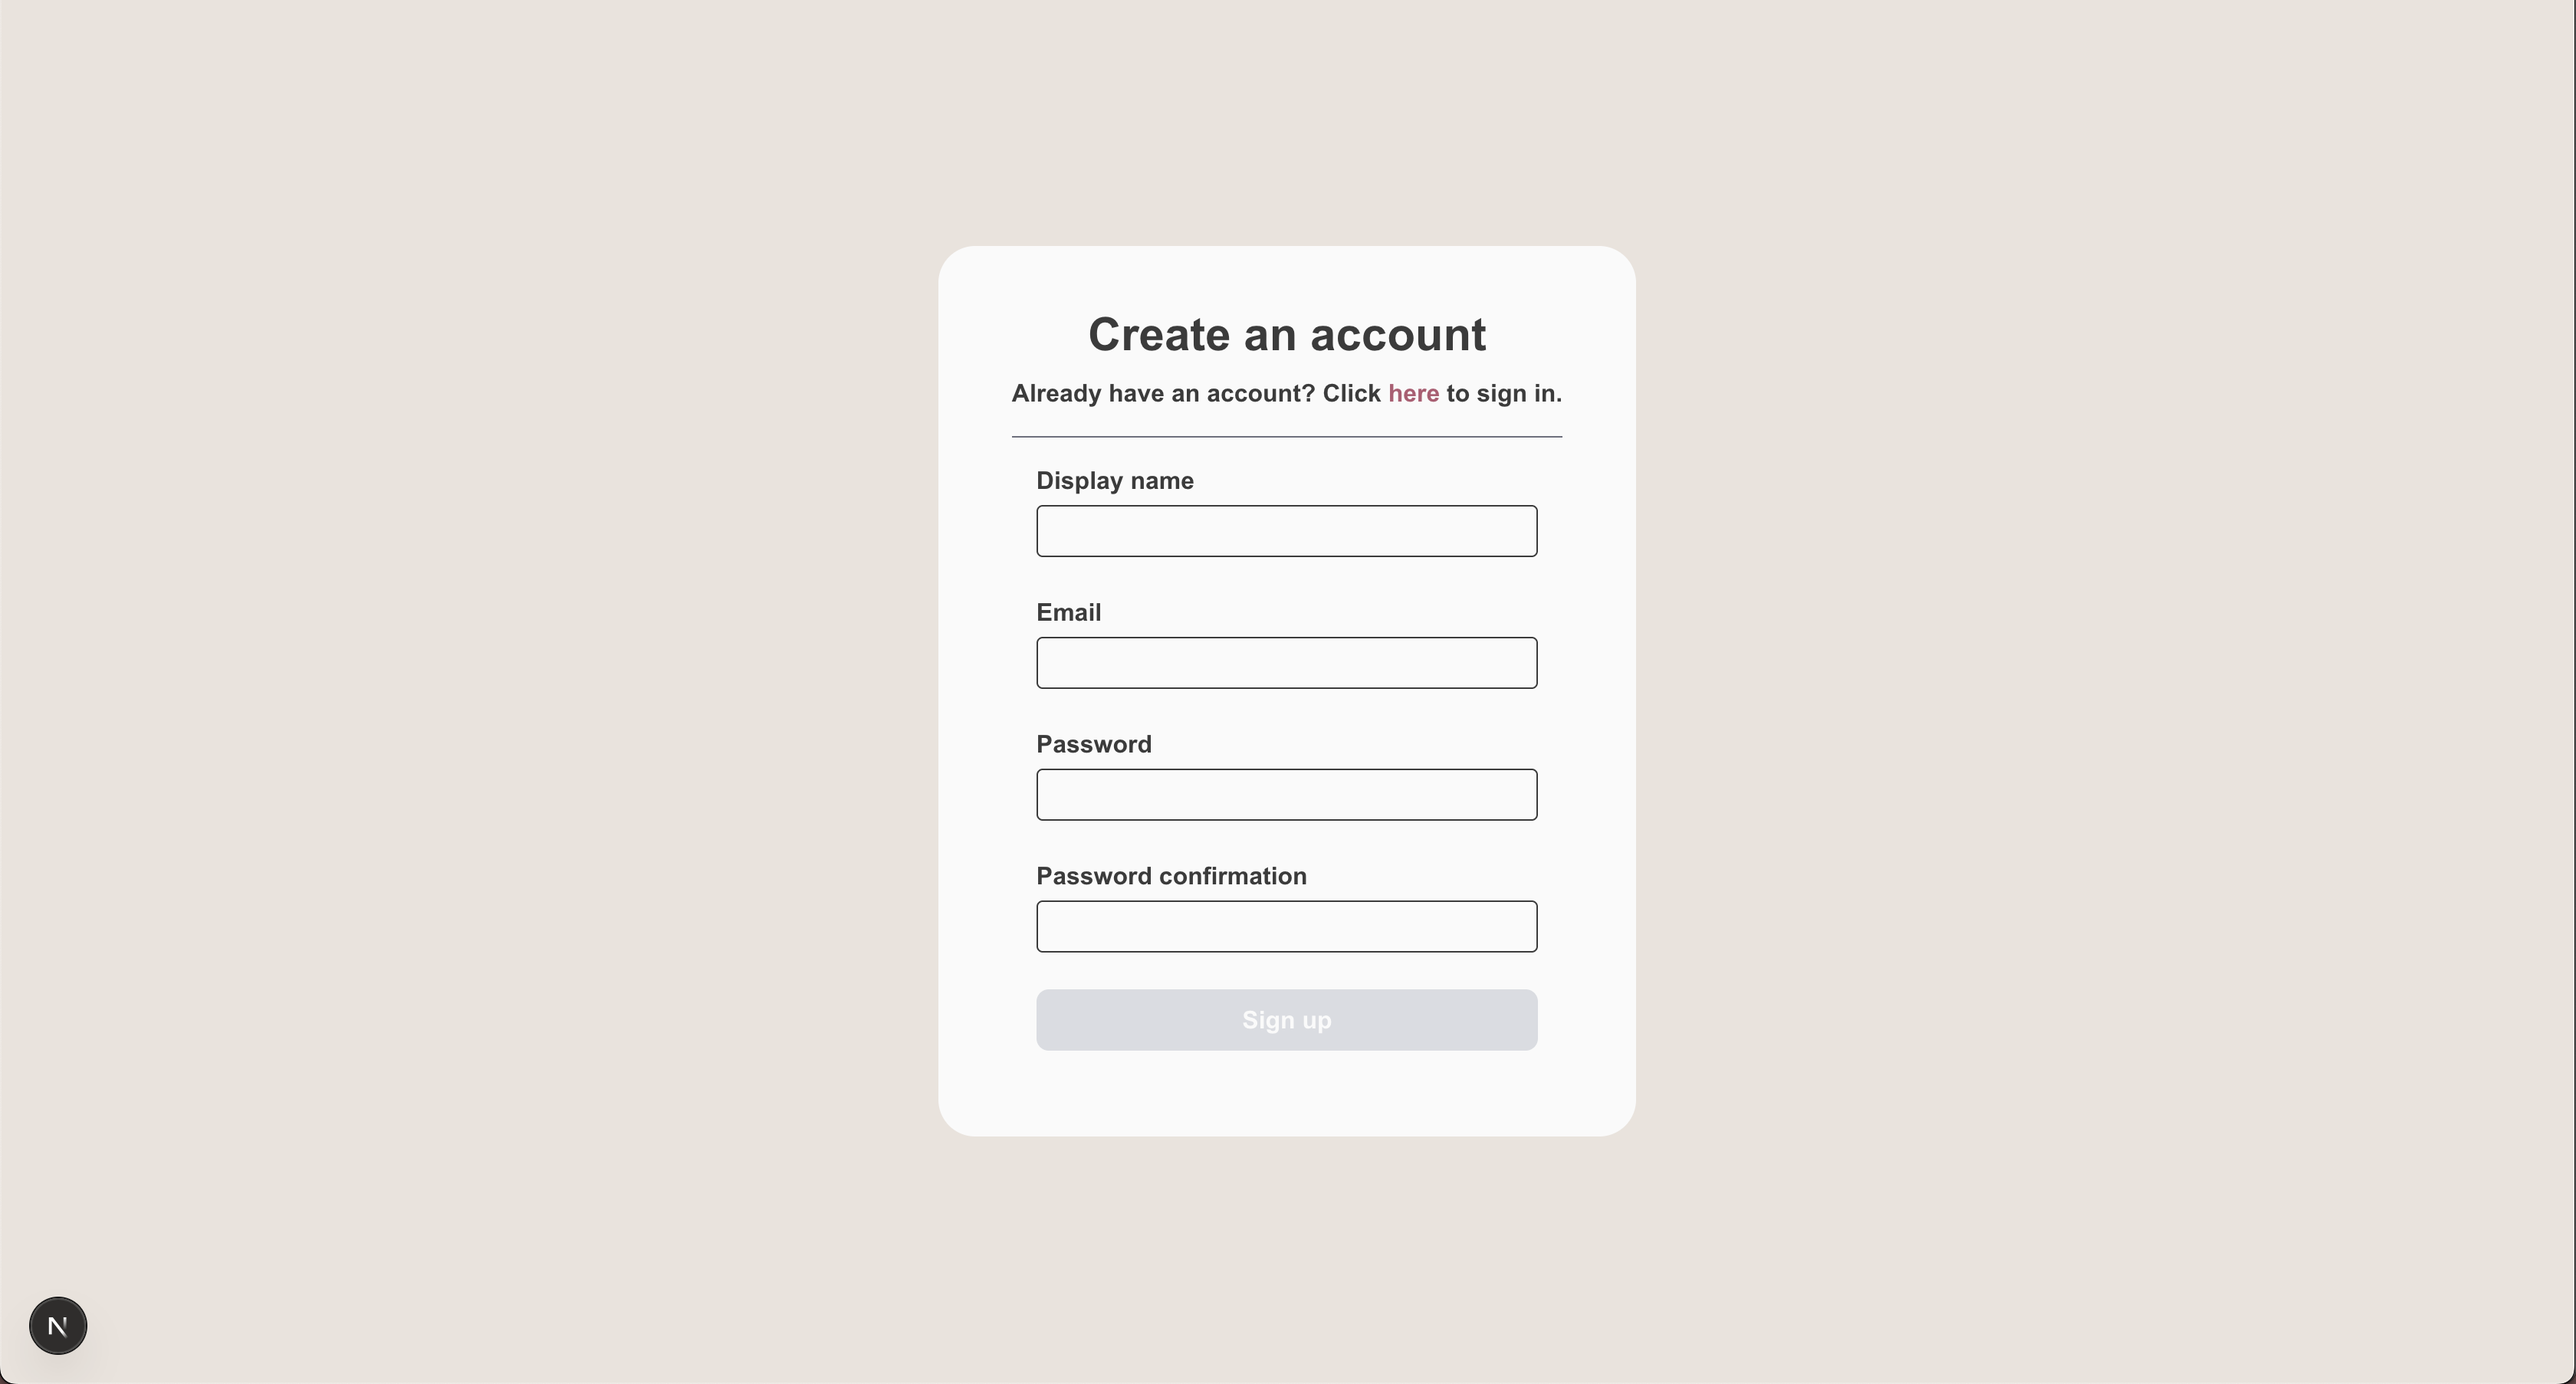
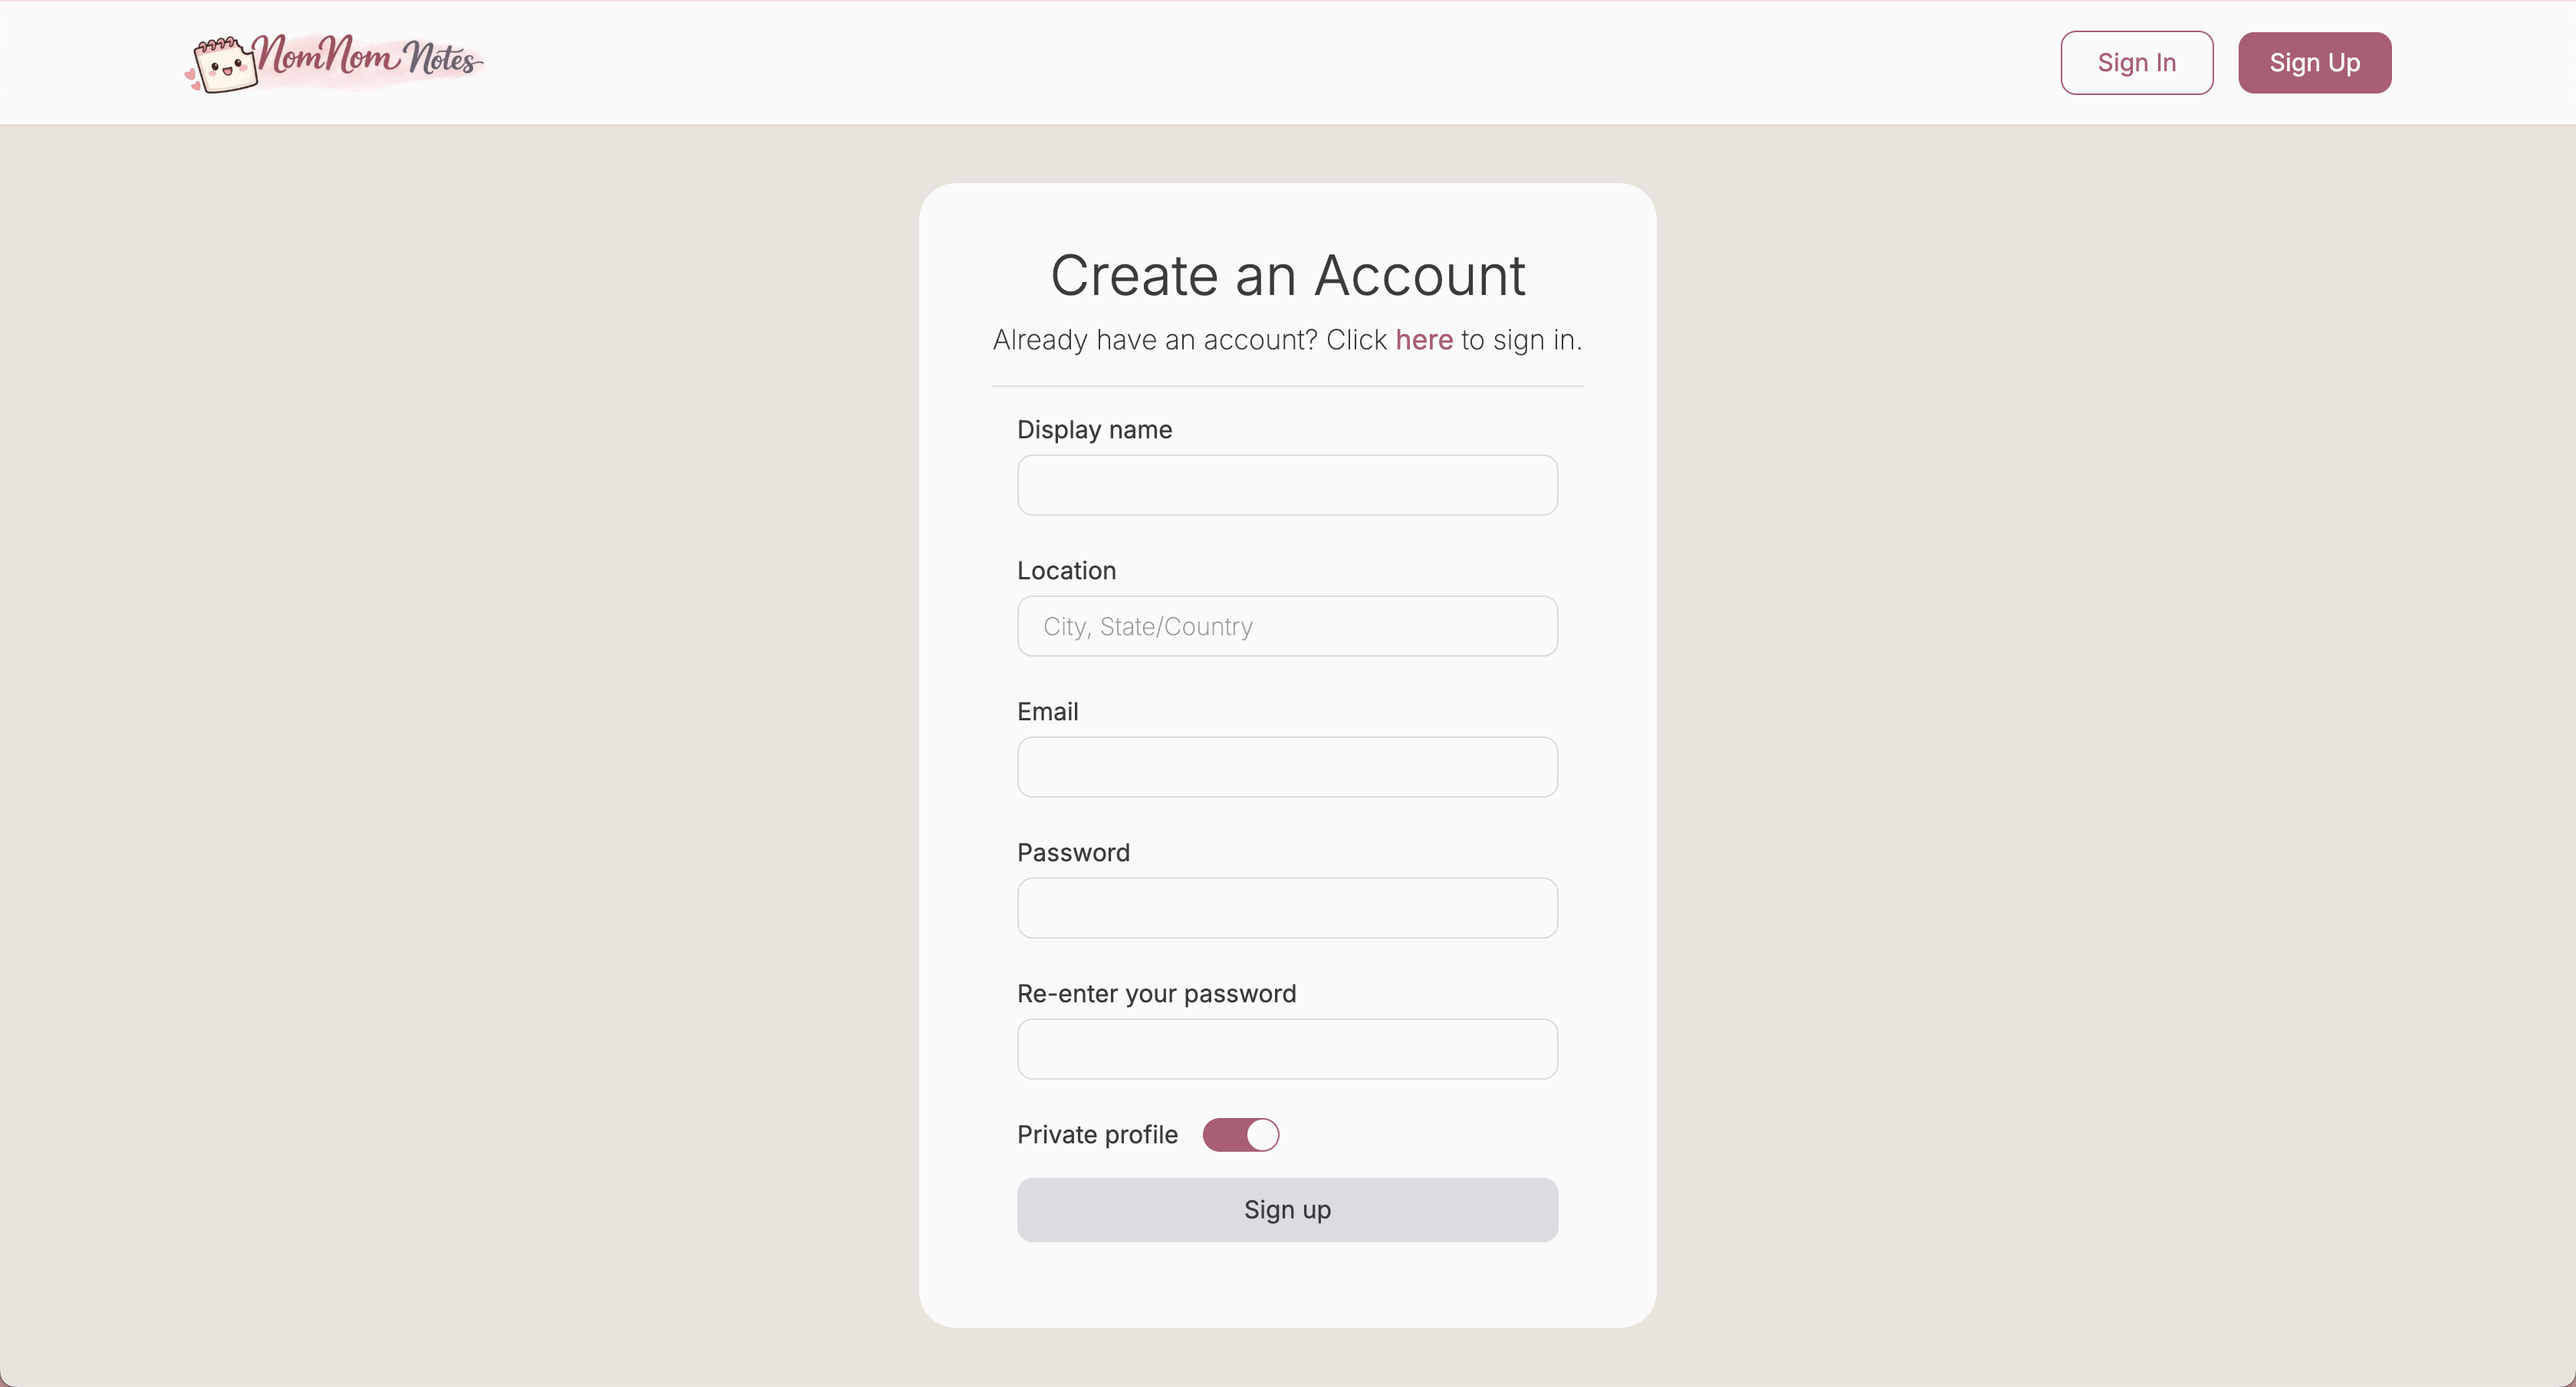
Updated the README file

diff --git a/README.md b/README.md
@@ -1,22 +1,35 @@
 # NomNom Notes
 
-This full-stack web application enables users to create and manage personalized restaurant lists, add reviews for restaurants they’ve visited, and visualize their lists on an interactive map. Users can search for restaurants using the Google Places API and add them to specific lists. Each restaurant entry allows users to log dishes with custom fields for the dish name, reviews, and an image. Users can also collaborate on lists by inviting others to contribute their own reviews of restaurants and dishes. In addition, users have publicly shareable profiles that highlight key statistics and showcase their photos, lists, restaurants, and reviews.
+This full-stack web application enables users to create and manage personalized restaurant lists, add reviews for restaurants they’ve visited, and visualize their lists on an interactive map. Users can search for restaurants using the Google Places API and add them to specific lists. Each restaurant entry allows users to log dishes with custom fields for the dish name, reviews, and an image. Users can also collaborate on lists by inviting others to contribute their own reviews of restaurants and dishes. In addition, users have publicly shareable profiles that showcase their photos, lists, restaurants, and reviews. Signed-in users can follow others and browse an activity feed of the people they follow.
 
 ## Features
+
+### Homepage features
+* Unsigned-in users see a public homepage with product overview and how-it-works sections
+* User can request an access code by submitting their email on the homepage
+* User with an access code can go from the homepage to sign up
+* Signed-in users land on their following activity feed instead of the public homepage
 
 ### Account features
 * User can create an account and sign in
 * User will need an access code to create an account
+* User can request an access code by email from the homepage
 
 ### Profile features
 * Every user has a profile that they can set to private or public
-* The profile will show the user's key statistics (number of lists, restaurants saved, and dishes reviewed)
+* When a profile is private, only the owner and approved followers can see profile details, location, followers/following, and activity
+* Private profiles prompt non-followers to request access
+* The profile will show follower and following counts that link to the user's social page
 * The profile will highlight the user's 4 most recently updated lists
 * The profile will highlight the user's 4 most recently saved restaurants
 * The profile will highlight the user's 4 most recently reviewed dishes
+* User can open "View all" from profile highlights to see every list, restaurant, or review on a dedicated activity page
+* The profile photo collage showcases uploaded dish and list photos
 
 ### List features
+* User can manage all owned and collaborative lists on a dedicated lists page
 * User can create, edit, and delete lists
+* User can drag-and-drop lists to change their display order
 * User can add an image for their list
 * User can add a description for their list
 * User can sort the restaurants in each list by "Recently added" or by "Name"
@@ -46,7 +59,20 @@ This full-stack web application enables users to create and manage personalized 
 * Collaborators can add their own reviews for all restaurants and dishes in the list
 
 ### Social features
-* Users can follow and be followed by other registered users
+* User can follow and unfollow other registered users
+* Following a public profile is immediate; following a private profile sends a follow request
+* User with a pending follow request sees a "Requested" state until it is approved or denied
+* User can approve or deny incoming follow requests from a navigation notifications modal
+* User can view a profile's followers and following on a dedicated social page
+* Followers and following lists are hidden on private profiles for non-followers
+
+### Activity feed features
+* Signed-in homepage shows an activity feed of people the user follows
+* Feed includes list created, list joined (collaboration), restaurant saved, and restaurant/dish reviewed activities
+* Nearby restaurant and dish reviews can be grouped into a single batched feed item
+* Feed items show relative timestamps and a related photo when available
+* User can scroll to load more feed activity
+* Empty feed prompts the user to follow people to see posts
 
 ## Tech Stack
 
@@ -63,17 +89,23 @@ This full-stack web application enables users to create and manage personalized 
 **Hosting platform:** Vercel
 
 ## Screenshots
+![Public homepage](./images/public-homepage.png)
+A public homepage with product overview and how-it-works sections
+
 ![A sign up page](./images/signup-page.png)
 A page where users can sign up for an account.
 
 ![A sign in page](./images/signin-page.png)
 A page where users can sign in to their account.
 
+![Following activity feed homepage](./images/homepage.png)
+A gated homepage with the user's following activity feed 
+
 ![Navigation bar](./images/nav.png)
-The navigation bar has two icons: one for lists and one for profile. The lists icon will take the user to their lists. The profile icon will show a submenu where the user can view their profile, go to their account settings, or sign out.
+The navigation bar has icons for the activity feed (home), lists, follow requests, and profile. The lists icon takes the user to their lists. The follow requests icon opens a modal to approve or deny pending follower requests. The profile icon shows a submenu where the user can view their profile, go to their account settings, or sign out.
 
 ![Profile page](./images/profile.png)
-A profile page that shows the user's basic information, key statistics, photos, lists, restaurants, and reviews. The user can edit their profile by clicking the "Edit profile" button, that will only appear for them, in the hero.
+A profile page that shows the user's basic information, photos, lists, restaurants, and reviews. The user can edit their profile by clicking the "Edit profile" button, that will only appear for them, in the hero.
 
 ![Settings page](./images/settings.png)
 A page where the user can change their settings. In the "Profile" tab, they can change their display name, location, and avatar photo. In the "Email" tab, they can change their email. In the "Password" tab, they can change their password. In the "Privacy" tab, they can set their profile to private or public. 
@@ -81,7 +113,13 @@ A page where the user can change their settings. In the "Profile" tab, they can 
 ![A page with all of the user's lists](./images/lists-page.png)
 A page showing all of the custom lists that the user has created or is a collaborator of. The user can drag-and-drop each list to change the order of how they appear. The user can also create a new list by clicking on the gray tile with the plus icon. This page can also be accessed by clicking on the bookmark icon in the navigation.
 
-![Editing a list](./images/lists-edit.png)
+![A list page with all of the restaurants saved](./images/list-page.png)
+A page for each custom list with the restaurants that were saved into the list. The user can sort the list by "Recently added" or by "Name". The user can edit restaurant description and ratings, or delete them from the list. All of the restaurants' locations on the list are added to an interactive map that the user can scroll and click around.
+
+![A restaurant page with all of the dishes saved](./images/restaurant-page.png)
+A page for each restaurant with the dishes that were added. The user can drag-and-drop each dish to change the order of how they appear. The user can also create a new dish by clicking on the gray tile with the plus icon.
+
+<!-- ![Editing a list](./images/lists-edit.png)
 A pop-up modal that allows the user to make edits to a specific list. When the visibility is set to private, only the list owner and collaborators can view the list. When the visibility is set to public, anybody with the list link can view the list. The user can choose an image file to upload. An image preview will appear for the image file uploaded.
 
 ![Sharing a list](./images/lists-share.png)
@@ -96,17 +134,13 @@ The default search page where a user can search for specific restaurants by ente
 ![Searching for restaurants](./images/search-page-results.png)
 The search page results where related results will appear (maximum of 20), and the user can select on which one to add to their list. The user can also click on the "Google Maps" link to view it there. 
 
-![A list page with all of the restaurants saved](./images/list-page.png)
-A page for each custom list with the restaurants that were saved into the list. The user can sort the list by "Recently added" or by "Name". The user can edit restaurant description and ratings, or delete them from the list. All of the restaurants' locations on the list are added to an interactive map that the user can scroll and click around.
-
-![A restaurant page with all of the dishes saved](./images/restaurant-page.png)
-A page for each restaurant with the dishes that were added. The user can drag-and-drop each dish to change the order of how they appear. The user can also create a new dish by clicking on the gray tile with the plus icon.
-
 ![Adding a dish](./images/dish-add.png)
 A pop-up modal that allows the user to add a dish to a specific restaurant. The user cannot add the dish until all required fields are filled out. If no image is provided, a default placeholder image will be used.
 
 ![Multiple reviews](./images/dish-reviews.png)
-A pop-up modal that shows all of the reviews for a restaurant or dish.
+A pop-up modal that shows all of the reviews for a restaurant or dish. -->
 
 ## Future improvements
+* **Ranking:** Users will be able to rank the restaurants within their lists
+* **Advanced Search:** Users will be able to search through all of their lists, restaurants, dishes, and reviews
 * **Database:** Cron job to periodically clean up unused data in the database
